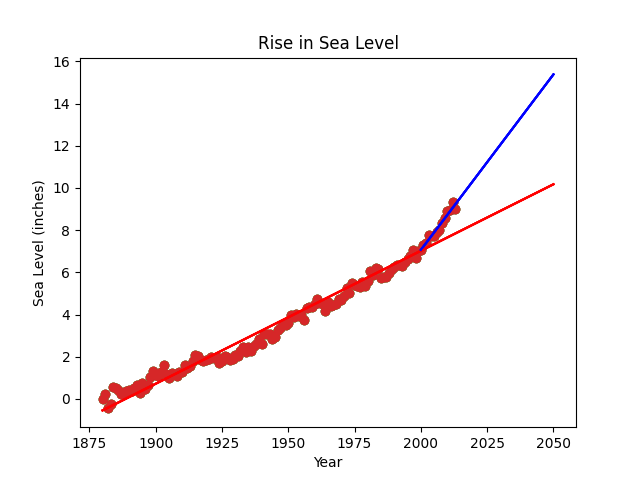
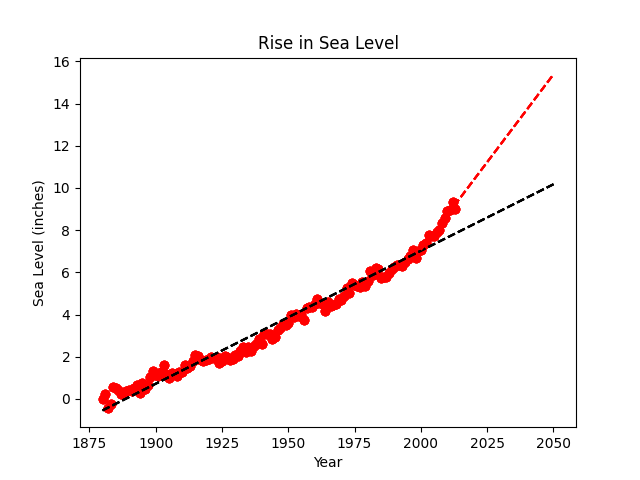
OK unittest

diff --git a/sea_level_predictor.py b/sea_level_predictor.py
@@ -10,14 +10,13 @@ def draw_plot():
     y = df["CSIRO Adjusted Sea Level"]
     
     # Create scatter plot
-    plt.scatter(x,y)
+    plt.scatter(x,y, color="red")
     
     # Create first line of best fit
-    
     result = linregress(x,y)
     xpred1 = pd.Series([i for i in range(1880,2051)])
     ypred1 = result.slope*xpred1 + result.intercept
-    plt.plot(xpred1, ypred1, 'r')
+    plt.plot(xpred1, ypred1, 'black', linestyle="--")
    
     # Create second line of best fit
     newdf = df.loc[df["Year"]>=2000]
@@ -26,7 +25,7 @@ def draw_plot():
     res = linregress(xnew,ynew)
     xpred2 = pd.Series([i for i in range(2000,2051)])
     ypred2 = res.slope*xpred2 + res.intercept
-    plt.plot(xpred2, ypred2, 'b')
+    plt.plot(xpred2, ypred2, 'r', linestyle="--")
     
     
     # Add labels and title
